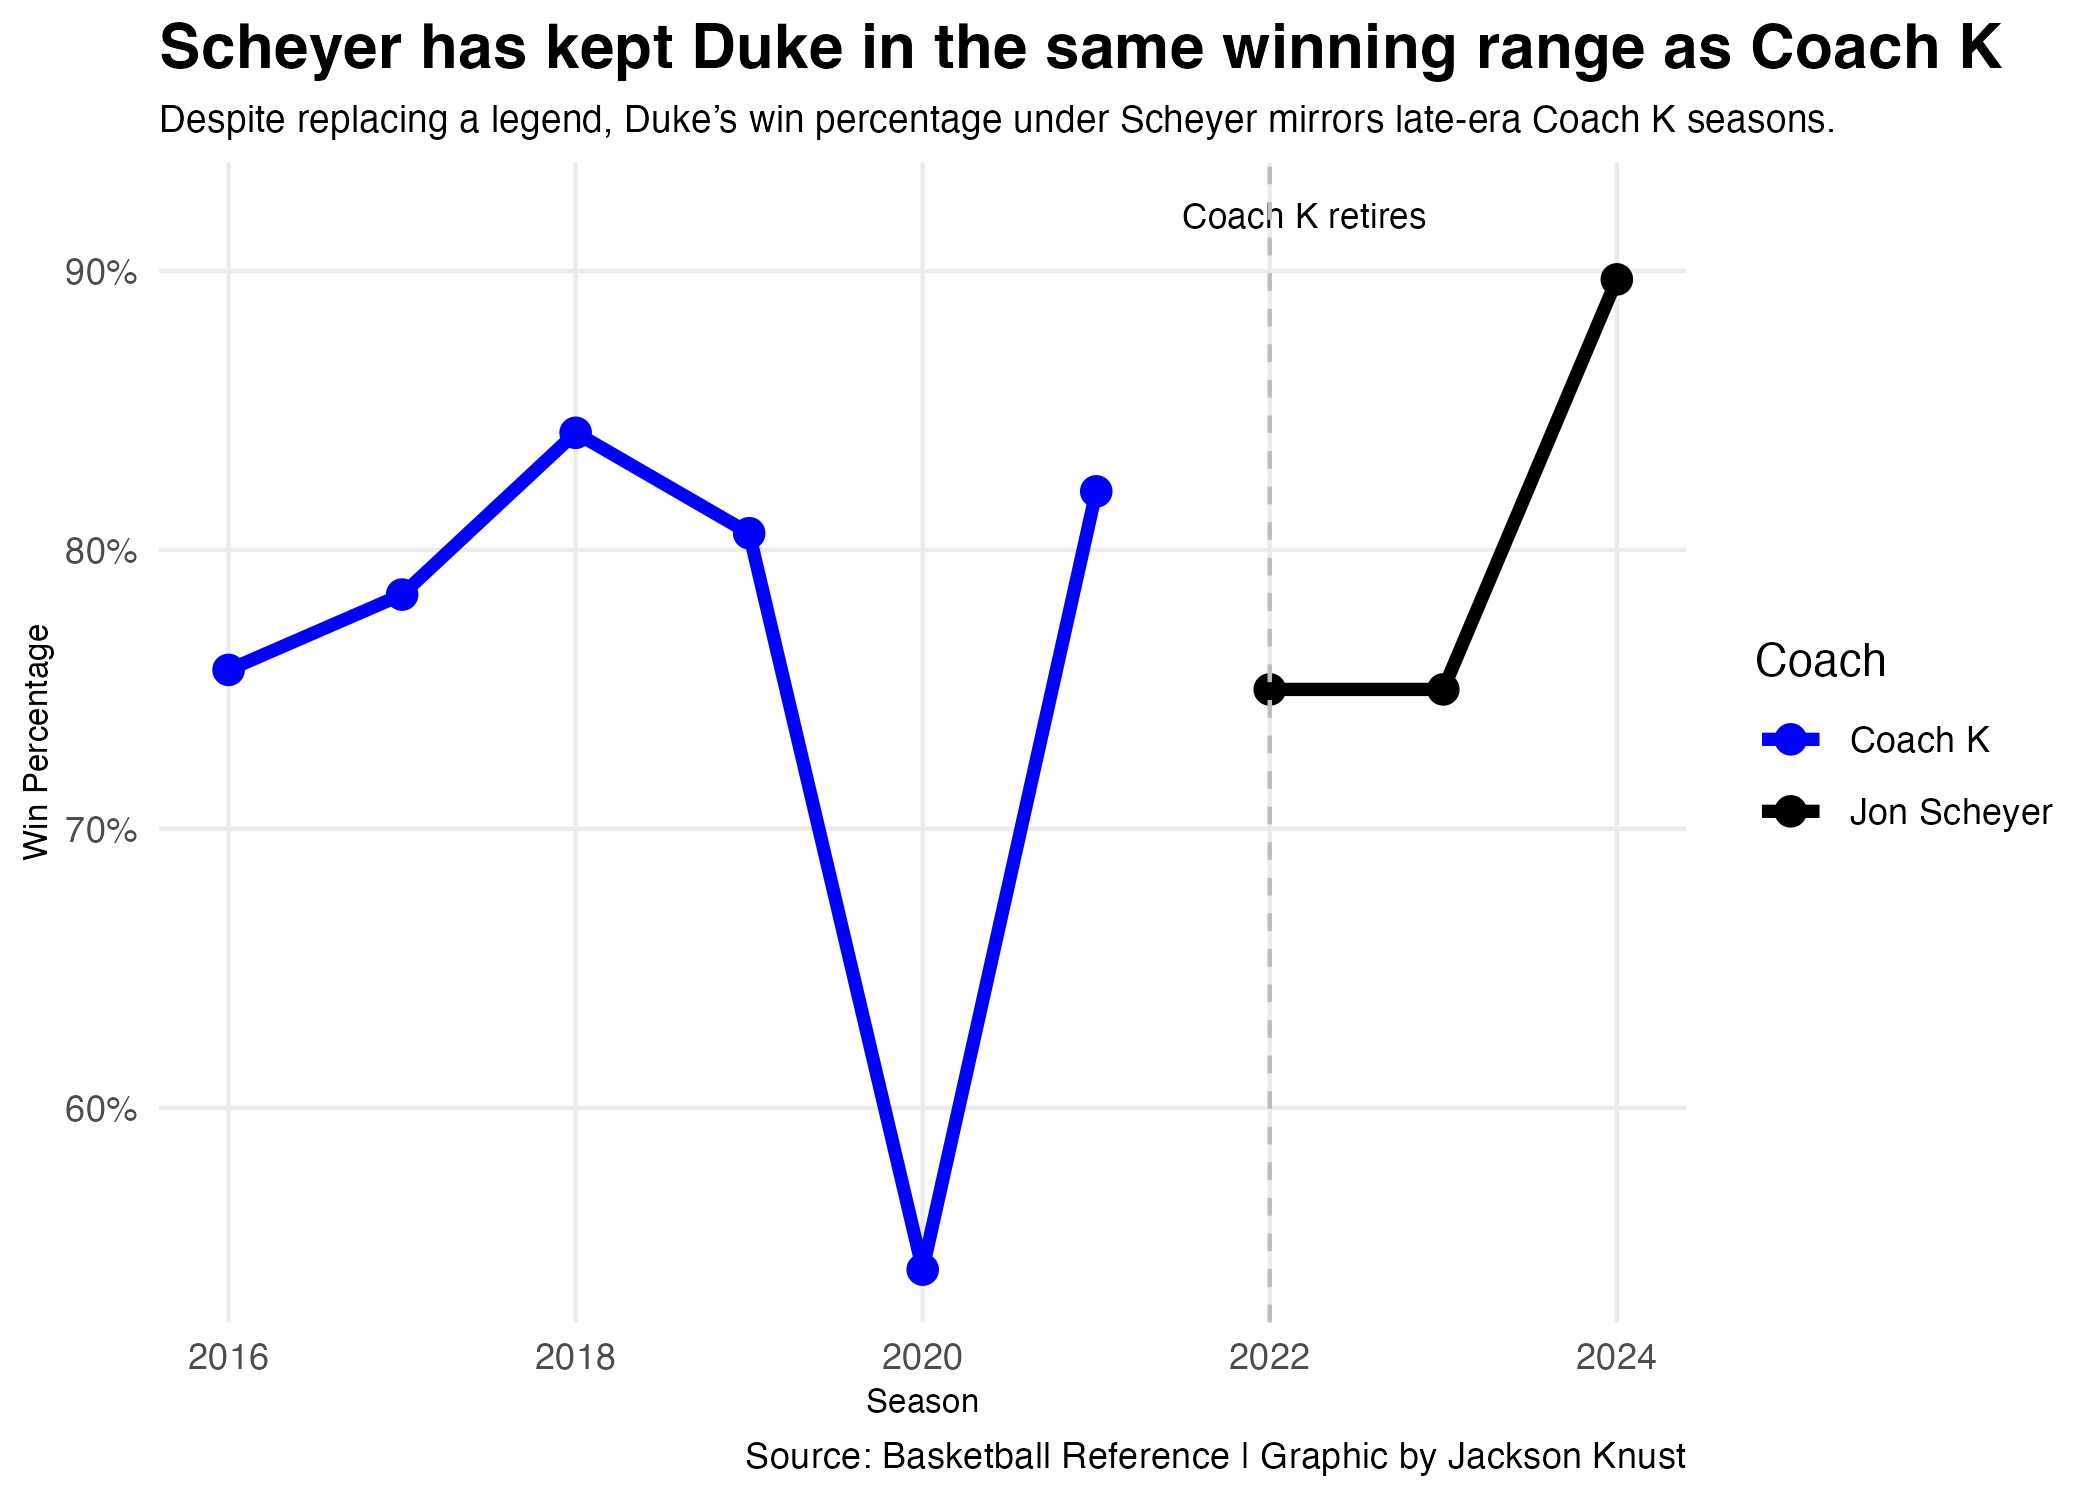
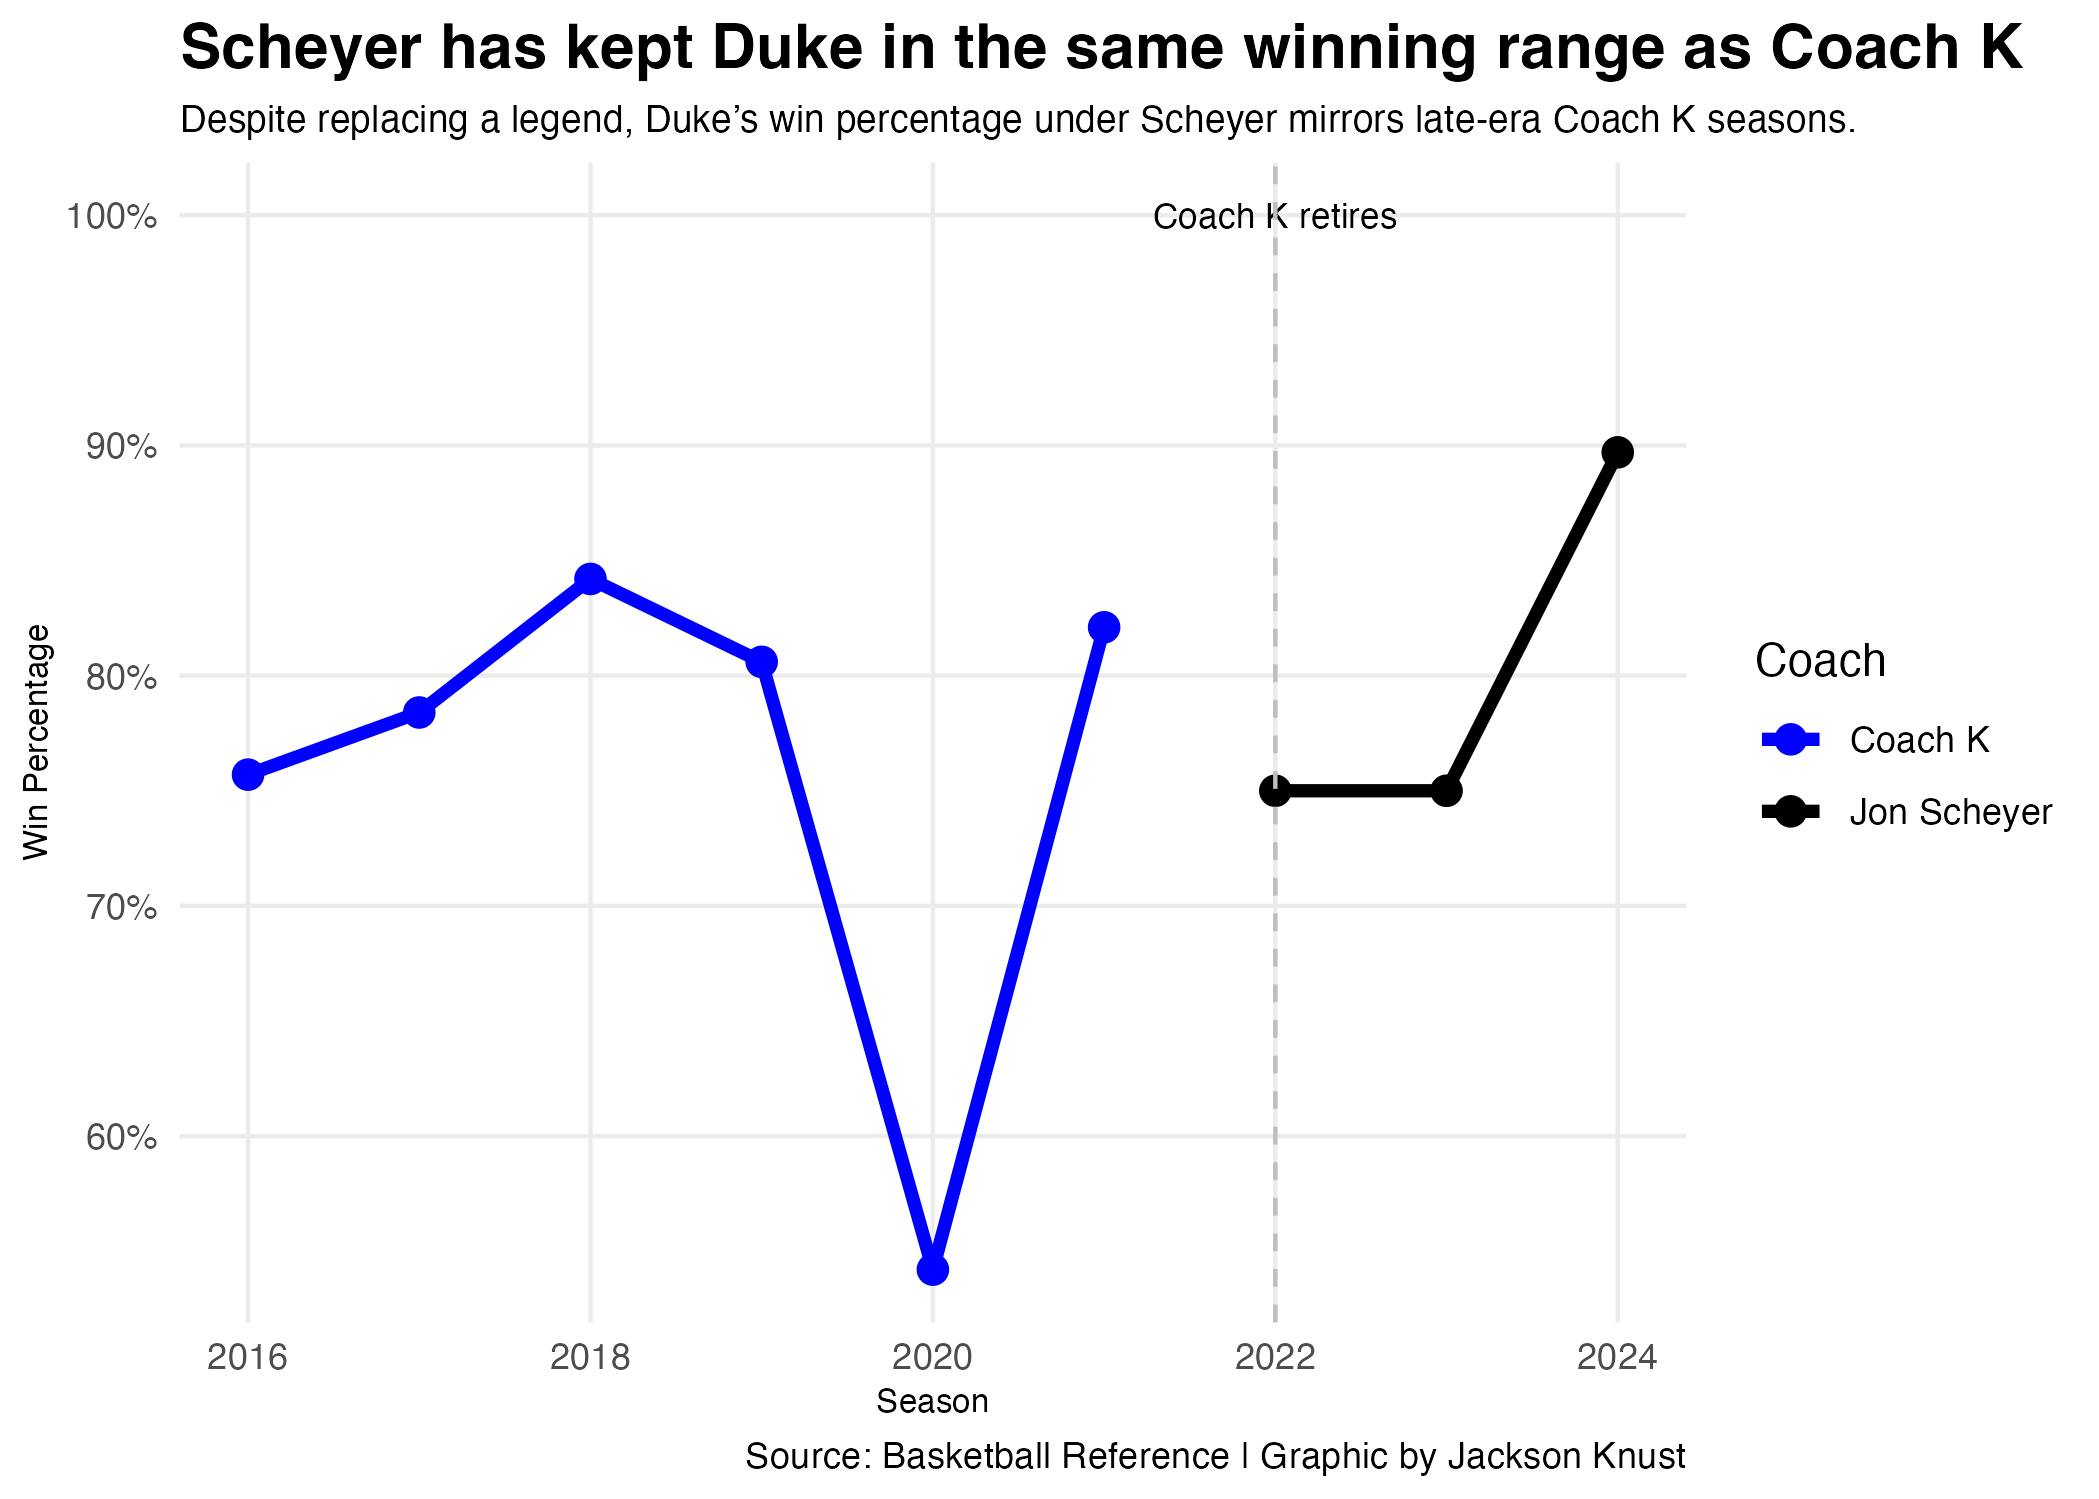
update

diff --git a/posts/duke-basketball-post-coach-K/index.html b/posts/duke-basketball-post-coach-K/index.html
@@ -225,8 +225,8 @@ pre > code.sourceCode > span > a:first-child::before { text-decoration: underlin
 <span id="cb2-4"><a href="#cb2-4" aria-hidden="true" tabindex="-1"></a>  <span class="fu">scale_y_continuous</span>(<span class="at">labels =</span> scales<span class="sc">::</span><span class="fu">percent_format</span>(<span class="at">accuracy =</span> <span class="dv">1</span>)) <span class="sc">+</span></span>
 <span id="cb2-5"><a href="#cb2-5" aria-hidden="true" tabindex="-1"></a>  <span class="fu">scale_color_manual</span>(<span class="at">values =</span> <span class="fu">c</span>(<span class="st">"Coach K"</span> <span class="ot">=</span> <span class="st">"blue"</span>, <span class="st">"Jon Scheyer"</span> <span class="ot">=</span> <span class="st">"black"</span>)) <span class="sc">+</span></span>
 <span id="cb2-6"><a href="#cb2-6" aria-hidden="true" tabindex="-1"></a>  <span class="fu">annotate</span>(<span class="st">"text"</span>,</span>
-<span id="cb2-7"><a href="#cb2-7" aria-hidden="true" tabindex="-1"></a>           <span class="at">x =</span> <span class="fl">2022.2</span>,</span>
-<span id="cb2-8"><a href="#cb2-8" aria-hidden="true" tabindex="-1"></a>           <span class="at">y =</span> <span class="fl">0.92</span>,</span>
+<span id="cb2-7"><a href="#cb2-7" aria-hidden="true" tabindex="-1"></a>           <span class="at">x =</span> <span class="dv">2022</span>,</span>
+<span id="cb2-8"><a href="#cb2-8" aria-hidden="true" tabindex="-1"></a>           <span class="at">y =</span> <span class="dv">1</span>,</span>
 <span id="cb2-9"><a href="#cb2-9" aria-hidden="true" tabindex="-1"></a>           <span class="at">label =</span> <span class="st">"Coach K retires"</span>,</span>
 <span id="cb2-10"><a href="#cb2-10" aria-hidden="true" tabindex="-1"></a>           <span class="at">size =</span> <span class="dv">3</span>) <span class="sc">+</span></span>
 <span id="cb2-11"><a href="#cb2-11" aria-hidden="true" tabindex="-1"></a>  <span class="fu">geom_vline</span>(<span class="at">xintercept =</span> <span class="dv">2022</span>, <span class="at">linetype =</span> <span class="st">"dashed"</span>, <span class="at">color =</span> <span class="st">"grey"</span>) <span class="sc">+</span></span>

diff --git a/index.html b/index.html
@@ -209,7 +209,7 @@ window.Quarto = {
 
 <div class="quarto-listing quarto-listing-container-default" id="listing-listing">
 <div class="list quarto-listing-default">
[2 lines of base64/hex data omitted]
 <div class="thumbnail"><a href="./posts/duke-basketball-post-coach-K/index.html" class="no-external">
 
 <img loading="lazy" src="./posts/duke-basketball-post-coach-K/image.png" class="thumbnail-image">
